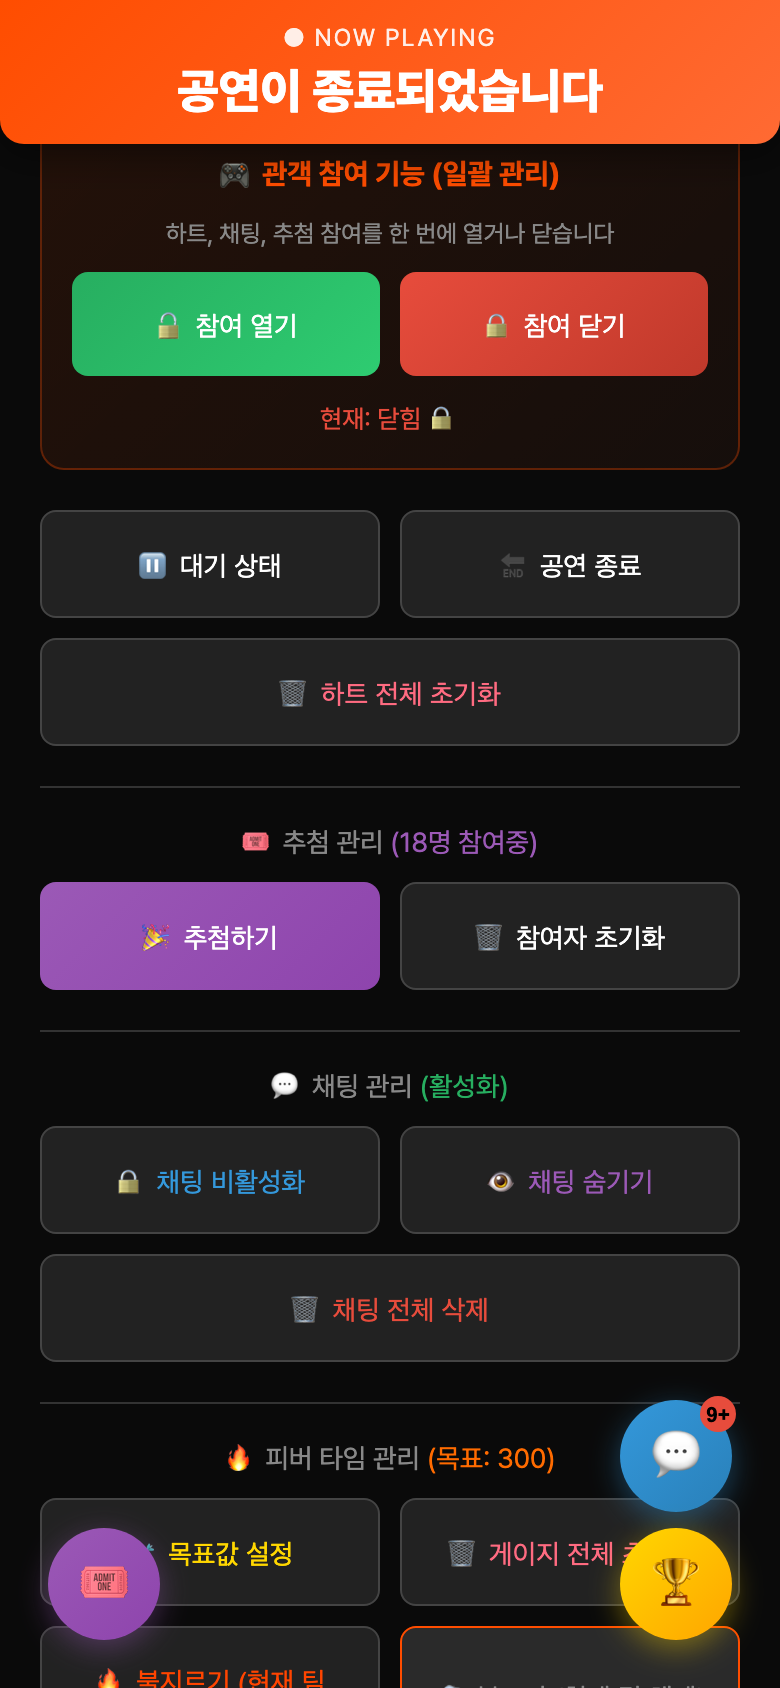
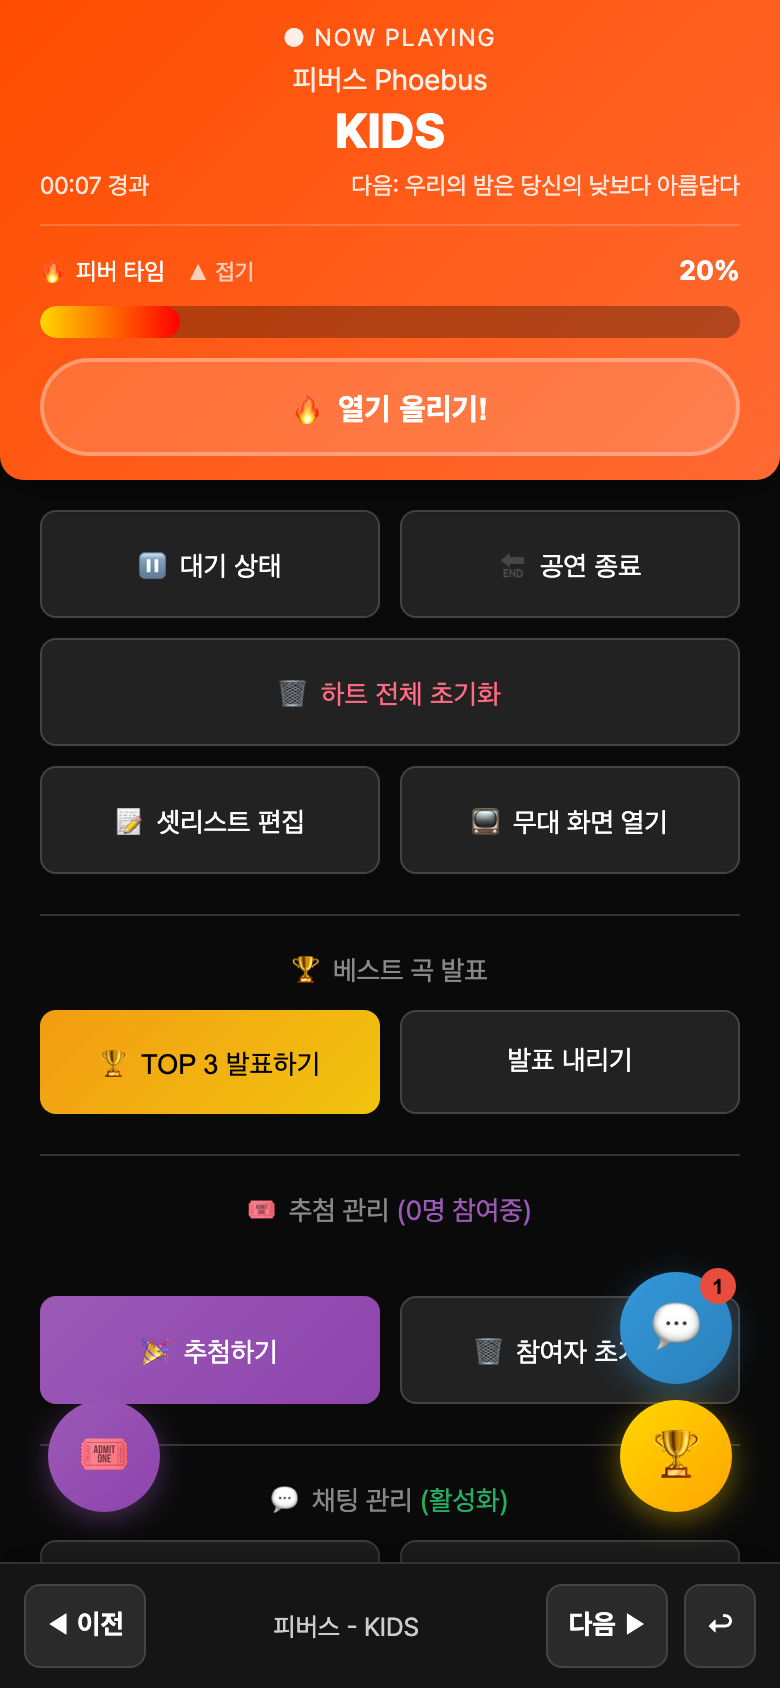
Firebase Authentication 관리자 계정 연결과 최종 보안 규칙 적용
- app.js의 apiKey 오타 수정 (한 글자 달라 Authentication 호출이 실패하던 문제)
- database.rules.json에 관리자 UID 반영
- 피버 MAX 채팅 알림을 관리자 클라이언트가 올리도록 변경 (알림 쓰기가 관리자 전용이 되었으므로)
- tests/e2e.py: 거부된 쓰기의 낙관적 로컬 반영 정리, 틀린 비밀번호 400 응답 제외
- 스크린샷 01, 05 갱신, README 보완

Claude-Session: https://claude.ai/code/session_01WZFdzfPyQBWLyZ2d1dbTYd

diff --git a/app.js b/app.js
@@ -1,5 +1,5 @@
 const firebaseConfig = {
-    apiKey: "AIzaSyAc3yxKWbhe2wXo2yXJTTRsHC7lfICPlvY",
+    apiKey: "AIzaSyAc3yxKWbhe2wXo2yXJTTRsHC7lflCPlvY",
     authDomain: "ignition-f1bbe.firebaseapp.com",
     databaseURL: "https://ignition-f1bbe-default-rtdb.asia-southeast1.firebasedatabase.app",
     projectId: "ignition-f1bbe",
@@ -1375,6 +1375,16 @@ database.ref('hypeExplodedTeams').on('value', (snapshot) => {
     if (hypeExplodedLoaded && currentTeam && hypeExplodedTeams[currentTeam] && !prev[currentTeam]) {
         showHypeExplosion();
     }
+    // MAX 채팅 알림은 알림 쓰기 권한이 있는 관리자 클라이언트가 올린다 (새로 MAX가 된 팀만)
+    if (hypeExplodedLoaded && isAdmin) {
+        Object.keys(hypeExplodedTeams).filter(team => !prev[team]).forEach(team => {
+            database.ref('chat').push({
+                type: 'notice',
+                text: `🔥🔥🔥 ${team.split(' ')[0]} 피버 타임 MAX! 🔥🔥🔥`,
+                timestamp: Date.now()
+            });
+        });
+    }
     hypeExplodedLoaded = true;
     updateHypeUI();
 });
@@ -1400,17 +1410,9 @@ function watchTeamHype(team) {
     });
 }
 
-// MAX 기록은 transaction으로 한 클라이언트만 남기고, 그 클라이언트만 채팅 알림을 올린다
+// MAX 기록은 transaction으로 한 클라이언트만 남긴다 (이미 있으면 중단). 알림은 관리자 리스너가 올린다.
 function markHypeMax(team) {
-    database.ref('hypeExplodedTeams/' + team).transaction(current => current ? undefined : true, (error, committed) => {
-        if (committed) {
-            database.ref('chat').push({
-                type: 'notice',
-                text: `🔥🔥🔥 ${team.split(' ')[0]} 피버 타임 MAX! 🔥🔥🔥`,
-                timestamp: Date.now()
-            });
-        }
-    });
+    database.ref('hypeExplodedTeams/' + team).transaction(current => current ? undefined : true);
 }
 
 function updateHypeUI() {

diff --git a/tests/e2e.py b/tests/e2e.py
@@ -48,7 +48,8 @@ async def main():
         screen = await (await b.new_context(viewport={"width": 1280, "height": 720})).new_page()
         for name, pg in (("admin", admin), ("aud", aud), ("screen", screen)):
             pg.on("pageerror", lambda e, n=name: errors.append(f"{n}: {e}"))
-            pg.on("console", lambda m, n=name: errors.append(f"{n} console: {m.text}") if m.type == "error" else None)
+            # 틀린 비밀번호 시도의 400 응답은 정상이라 제외
+            pg.on("console", lambda m, n=name: errors.append(f"{n} console: {m.text}") if m.type == "error" and "status of 400" not in m.text else None)
             pg.on("dialog", lambda d: asyncio.ensure_future(d.accept()))
 
         # 관리자 로그인 (Firebase Authentication)
@@ -77,6 +78,8 @@ async def main():
                 heartJump: await t(() => database.ref('hearts/zzz').set(500)),
             }; }""")
         ok(all(v == "DENIED" for v in denied.values()), f"[권한] 관객의 관리자 경로 쓰기 전부 거부 {denied}")
+        # 거부된 쓰기도 SDK가 로컬에 먼저 반영해 자기 화면에만 오버레이가 잠깐 뜬다. 정리한다.
+        await aud.wait_for_timeout(1000); await aud.evaluate("closeWinner(); closeBest(); currentWinnerDrawnAt = 0;")
 
         # 참여 열기, 곡 진행
         await admin.click("#interaction-open-btn"); await aud.wait_for_timeout(1500)
